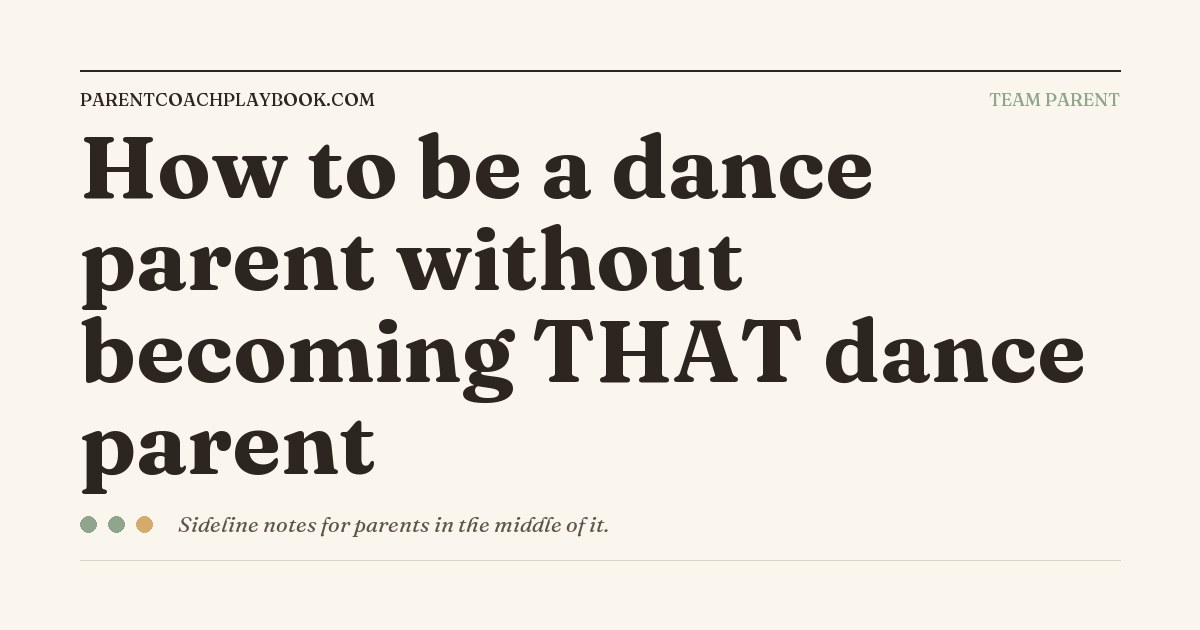
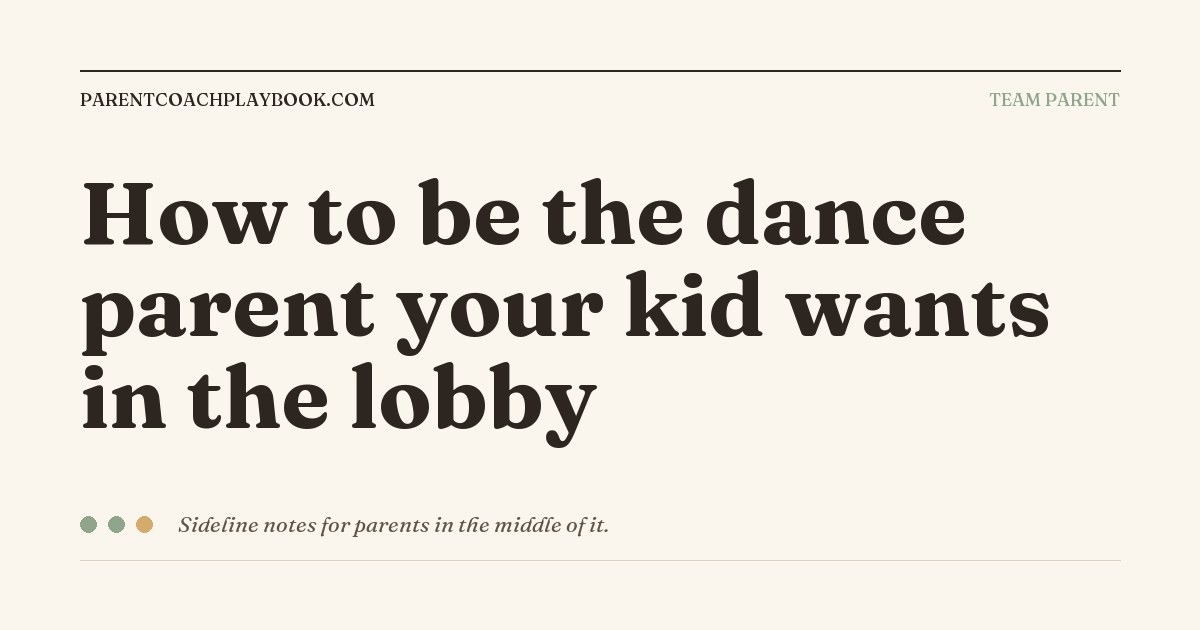
Scrub stereotype tropes from new performing-arts articles

Changed region(s): [[0.0617, 0.2111, 0.925, 0.7841]]

diff --git a/src/content/articles/dance-being-the-good-dance-parent.md b/src/content/articles/dance-being-the-good-dance-parent.md
@@ -1,7 +1,7 @@
 ---
-title: "How to be a dance parent without becoming THAT dance parent"
-dek: "The dance studio lobby has a reputation. Here is how to be there without becoming the cliché."
-seoDescription: "Dance parent culture can be intense. Here is how to support your kid without becoming the parent everyone avoids in the lobby."
+title: "How to be the dance parent your kid wants in the lobby"
+dek: "The dance studio lobby is its own small community. Here is how to show up well in a space you will be in every week for years."
+seoDescription: "Dance lobbies have their own dynamics. Here is how to show up well in a space you will see the same parents in every week for years."
 bluf: "Good dance parents show up on time, keep their opinions about other kids to themselves, follow the studio's communication channels, and do not coach their kid in the parking lot. The lobby is not the place to talk about casting, technique, or competition results."
 topic: "communication"
 format: "essay"
@@ -12,15 +12,15 @@ publishedAt: "2026-05-12"
 featured: false
 ---
 
-You have been sitting in this studio lobby for three years. You know everyone's name. You know which mom not to sit next to. You know which mom always gossips about casting in the bathroom line at competition.
+You have been sitting in this studio lobby for three years. You know everyone's name. You know who is easy to sit with and who is in a hurry. You know which conversations are about kids and which ones drift somewhere else.
 
 Tonight your daughter has an extra rehearsal. You have an hour to kill in a folding chair next to a coffee machine.
 
-Here is how to use that lobby time without becoming the cliché your daughter does not want to see in you.
+Here is how to use that lobby time in a way that makes the years easier on her and on you.
 
 ## The lobby is not a coffee shop
 
-The first thing to understand about dance parent culture is that the lobby is a small, contained space where everyone is going to see each other every week for a long time.
+The first thing to understand about the dance lobby is that it is a small, contained space where everyone will see each other every week for a long time.
 
 The kids will talk. The parents will talk. Conversations carry. Everyone will know what was said.
 
@@ -38,7 +38,7 @@ Do not coach your kid in the parking lot. They just finished a 90-minute class w
 
 Do not record other kids' performances and share them. Not at the studio. Not at competition. Not at recital. Other parents have not consented for their kids to be filmed by you.
 
-Do not show up to the lobby in a t-shirt that says "Dance Mom" or "I have rights as a parent." The cultural caricature is real. Wearing it on your chest just confirms it.
+Skip lobby t-shirts that announce a parent type. The lobby is small and you will be in it for years. The most-liked parents in any lobby are the ones who do not announce themselves before they sit down.
 
 ## A short list of things to do
 
@@ -100,7 +100,7 @@ The exception is when something is clearly wrong. A teacher said something inapp
 
 ## The competition weekend
 
-Competition weekends compress all of the dynamics of dance parent culture into 48 hours.
+Competition weekends compress all of the lobby dynamics into 48 hours.
 
 A few survival rules.
 

diff --git a/src/content/articles/ballet-boys-in-ballet.md b/src/content/articles/ballet-boys-in-ballet.md
@@ -14,7 +14,7 @@ featured: false
 
 He got in the car after the homecoming dance on Friday night. He was quiet on the drive home.
 
-Halfway there he told you what a kid said to him about ballet. The kid was on the football team. He laughed when he told you because that is what he has learned to do.
+Halfway there he told you what a kid said to him about ballet at lunch. He laughed when he told you because that is what he has learned to do.
 
 You did not laugh. You wanted to drive to that kid's house. Instead you took your son home. Here is how to think about this without making it worse for him on Monday.
 
@@ -34,11 +34,11 @@ A kid at school said something. It is going to happen. It is going to happen mor
 
 The common moves.
 
-Kids ask if your son is gay because he does ballet. The implicit message is that ballet is for girls. The actual percentage of male dancers who are gay is probably higher than the general population. So what. The question is hostile regardless of any answer.
+Kids ask your son if he is gay because he does ballet. The question is hostile no matter the answer. The implication is that ballet is something a boy should be embarrassed about. He is not, and ballet is not.
 
-Kids tease him about wearing tights. The teasing is about anything that does not look traditionally masculine. Tights are an easy target.
+Kids tease him about the clothing — tights, leotards, the studio uniform. This is the easiest surface to grab at. Help him separate the costume from the work: the tights are practical for what he does in the room, the same way a wrestling singlet or a swim brief is practical for what those athletes do.
 
-Kids ask why he does not play a real sport. The implicit message is that ballet does not count. The truth is that ballet is one of the most physically demanding athletic disciplines on earth. Top male ballet dancers train more hours per week than most college athletes. They can jump higher and turn faster than most basketball players. They have the body composition of elite gymnasts. Ballet is a sport. The teasing is wrong on the facts.
+Kids ask why he does not play a real sport. The implicit message is that ballet does not count. The truth is that ballet is one of the most physically demanding athletic disciplines on earth. Male ballet dancers train long hours, build serious strength and stamina, and execute jumps and turns that take years to learn. Ballet is a sport. The teasing is wrong on the facts.
 
 ## What to say to your son
 
@@ -48,9 +48,9 @@ Validate what is happening. "Yeah. That is something boys in ballet deal with. I
 
 Do not minimize it. "Just ignore them" is empty advice that teaches him to swallow his feelings.
 
-Give him the language. "Ballet is one of the hardest physical disciplines on earth. The men who do it are some of the strongest athletes in any sport. You are not doing girl stuff. You are doing one of the hardest things a body can do."
+Give him the language. "Ballet is one of the hardest physical disciplines on earth. The dancers who do it are strong, trained, and disciplined. What you are doing takes years to learn and most kids could not do a single class of it."
 
-Help him understand who the bullies are. "Kids who tease other kids for doing hard things are usually kids who are not doing anything hard themselves."
+Help him understand what is going on. "Most kids tease about things they have not tried. The teasing is about them, not you. It tells you what they are uncomfortable with, not what is wrong with what you are doing."
 
 Let him know it gets better. By high school, most kids stop teasing about ballet. Some kids start to be impressed by it. By college, ballet is a credential.
 

diff --git a/src/content/articles/ballet-the-nutcracker-season.md b/src/content/articles/ballet-the-nutcracker-season.md
@@ -120,13 +120,13 @@ Take photos at the theater before the show. Bring family. The "kid in costume wi
 
 Do not let family watch the dress rehearsal. The show should be the show. Save the surprise.
 
-## Stage moms (and dads)
+## The parent lobby in December
 
-The Nutcracker season brings out the most intense version of dance parent culture. The lobby will be full of parents who have feelings about casting, costumes, and rehearsal schedules.
+Nutcracker season is the most intense stretch on the studio calendar, and the lobby reflects it. Parents have feelings about casting, costumes, and rehearsal schedules. Some of it spills into conversations between sets.
 
 Stay neutral. Be polite. Cheer for everyone's kids. Do not feed the gossip.
 
-You will see these parents for the next ten years. Make friends. Avoid drama.
+You will see these parents for the next ten years. Make friends. Steer clear of the drama you don't need to be in.
 
 ## After the run
 

diff --git a/src/content/articles/dance-studio-shopping-year-one.md b/src/content/articles/dance-studio-shopping-year-one.md
@@ -12,7 +12,7 @@ publishedAt: "2026-05-12"
 featured: false
 ---
 
-Saturday morning open house at the dance studio. Pink ballet shoes lined up by the front desk. A mom in a "Dance Mom" tank top filling out a clipboard.
+Saturday morning open house at the dance studio. Pink ballet shoes lined up by the front desk. A clipboard of sign-up sheets on the counter and a row of folding chairs along the lobby wall.
 
 The director, who introduced herself as a former regional pro, gave you a tour that highlighted the trophy wall and the new marley floor.
 